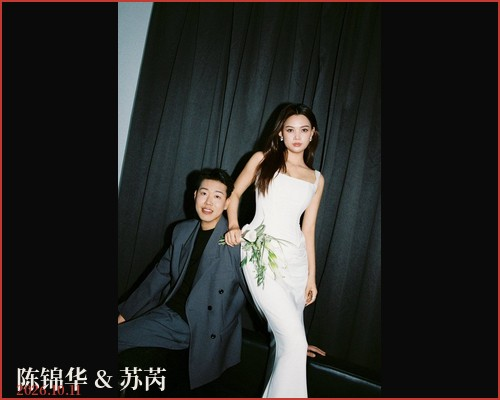
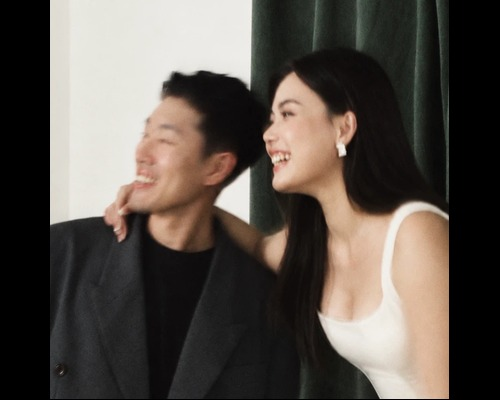
Add files via upload

diff --git a/index.html b/index.html
@@ -5,7 +5,7 @@
 <meta name="viewport" content="width=device-width,initial-scale=1,maximum-scale=1,user-scalable=no">
 <title>陈锦华 & 苏芮 婚礼</title>
 <meta name="description" content="2026年10月11日 · 日出东山海银沙酒店 · 期待与你相见">
-<meta property="og:title" content="陈锦华&苏芮婚礼">
+<meta property="og:title" content="陈锦华 & 苏芮 婚礼邀请函">
 <meta property="og:description" content="2026年10月11日 · 日出东山海银沙酒店 · 期待与你相见">
 <meta property="og:image" content="https://suriii95.github.io/wedding/OG_COVER.jpg" itemprop="image">
 
